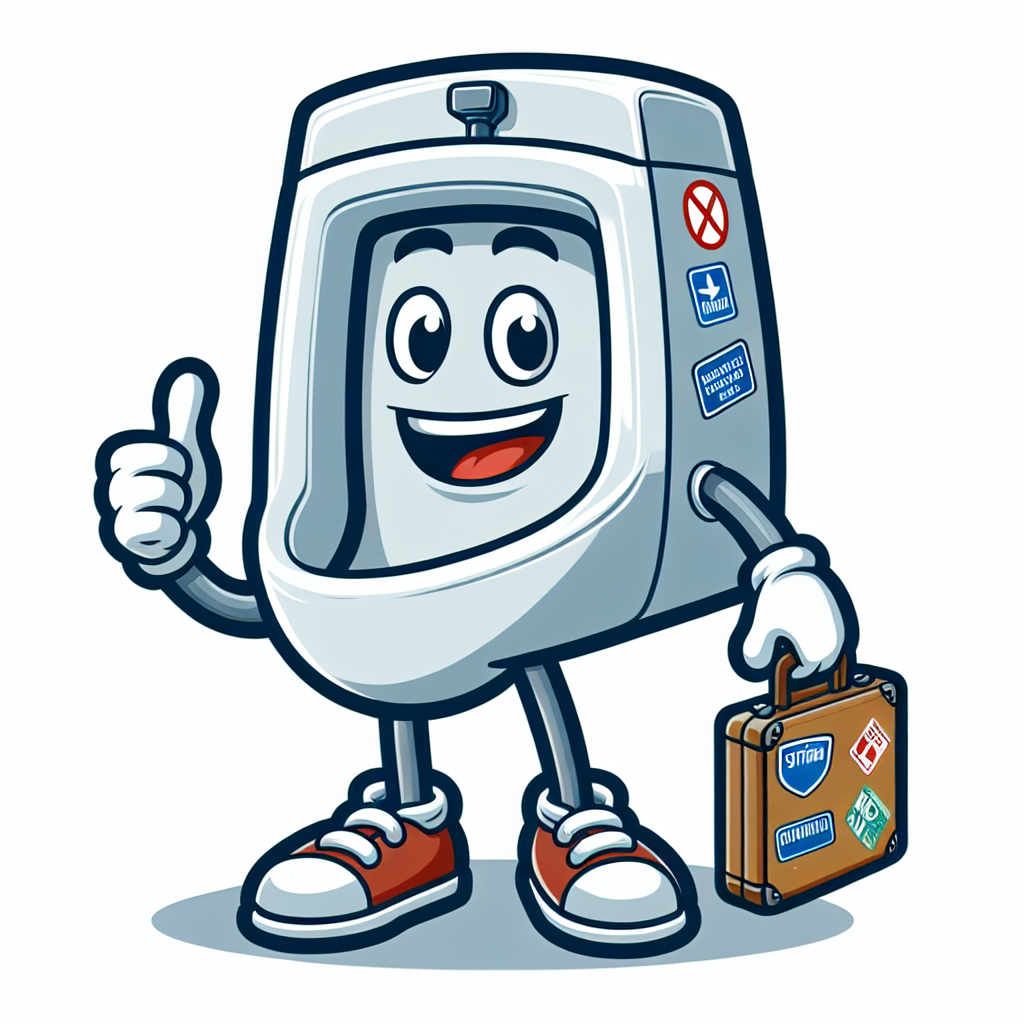
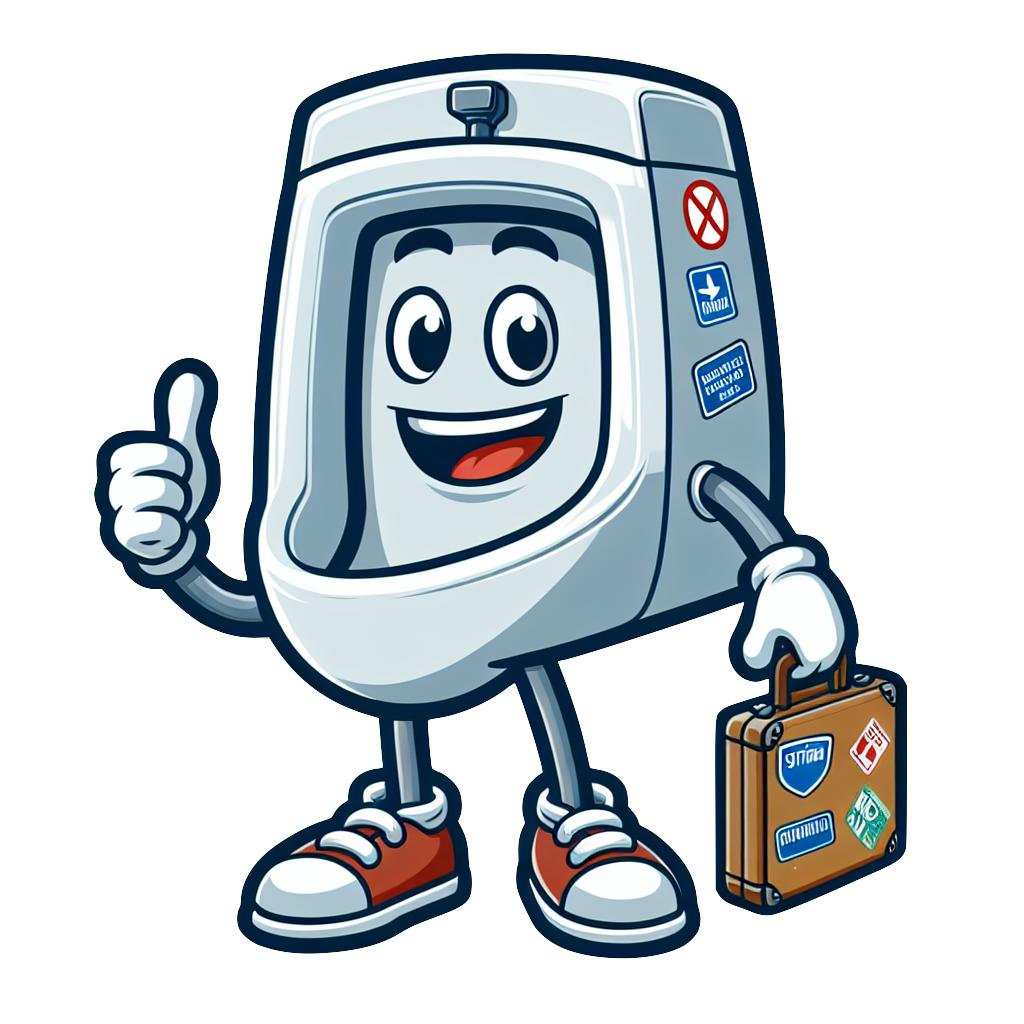
get stats working

Changed region(s): [[0.125, 0.8125, 0.8438, 0.9688], [0.7188, 0.6562, 0.75, 0.6875]]

diff --git a/public/js/logic.app.js b/public/js/logic.app.js
@@ -1,103 +1,115 @@
-function getOptions(states) {
-    var colors = ['#f5f5f5', '#e0b336'];
-    // This is hacky, but if there's no states selected, then Google Charts will show ALL states as selected.
-    if (countActiveLocations(states) == 0) {
-        colors = ['#f5f5f5'];
-    }
-    var options = {
+
+function getBaseOptions() {
+    return {
         region: 'US',
         displayMode: 'regions',
         resolution: 'provinces',
-        enableRegionInteractivity: true,
         legend: 'none',
         colorAxis: {
-            colors: colors,
+            colors: ['#f5f5f5', '#e0b336'],
         },
     };
+}
+
+function getOptions(regions) {
+    var options = getBaseOptions();
+    // This is hacky, but if there's no regions selected, then Google Charts will show ALL region as selected.
+    if (countActiveLocations(regions) == 0) {
+        options.colorAxis.colors = ['#f5f5f5'];
+    }
+    options.enableRegionInteractivity = true;
     return options;
 }
 
-function findLocationIndex(states, value) {
-    for (var i = 0; i < states.length; i++) {
-        if (states[i][0].v === value) {
+function findLocationIndex(regionArray, value) {
+    for (var i = 0; i < regionArray.length; i++) {
+        if (regionArray[i][0].v === value) {
             return i;
         }
     }
     return -1; // Return -1 if no match is found
 }
 
-function countActiveLocations(states) {
+function countActiveLocations(regions) {
     let count = 0;
-    for (let i = 0; i < states.length; i++) {
-        if (states[i][1] === 1) {
+    for (let i = 0; i < regions.length; i++) {
+        if (regions[i][1] === 1) {
             count++;
         }
     }
     return count;
 }
 
-function toggleRegion(states, region) {
-    stateIndex = findLocationIndex(states, region);
-    if (stateIndex == -1) {
+function toggleRegion(regionArray, region) {
+    index = findLocationIndex(regionArray, region);
+    if (index == -1) {
         console.log("Could not find location " + region);
-        return states;
+        return regionArray;
     }
-    if (states[stateIndex][1] == 0)
-        states[stateIndex][1] = 1
+    if (regionArray[index][1] == 0)
+        regionArray[index][1] = 1
     else
-        states[stateIndex][1] = 0
-    return states;
+        regionArray[index][1] = 0
+    return regionArray;
 }
 
-function generateData(states) {
+function generateGoogleDataTable(regions) {
     var data = new google.visualization.DataTable();
     data.addColumn('string', 'State');
     data.addColumn('number', 'Value');
     data.addColumn({ type: 'string', role: 'tooltip' });
-    data.addRows(states);
+    data.addRows(regions);
     return data;
 }
 
-function updateView(states) {
-    activeStates = countActiveLocations(states);
-    totalStates = states.length;
-    $('#active_states').html(activeStates);
-    $('#total_states').html(totalStates);
-    $('#amount').html(getAmount(activeStates, totalStates, volumes, activeStates * 8));
+function updateView(regionArray) {
+    const activeRegions = countActiveLocations(regionArray);
+    const totalRegions = regionArray.length;
+    $('#active_states').html(activeRegions);
+    $('#total_states').html(totalRegions);
+    $('#amount').html(getAmount(activeRegions, totalRegions, volumes, activeRegions * 8));
 
     // Update the URL
-    const stateStr = states.filter(state => state[1] === 1).map(state => state[0].v).join(',');
+    const regionStr = regionArray.filter(region => region[1] === 1).map(region => region[0].v).join(',');
     var url = window.location.origin + window.location.pathname;
-    if (stateStr)
-            url += '?active=' + stateStr;
+    if (regionStr)
+            url += '?active=' + regionStr;
     window.history.replaceState(null, null, url);
-    saveLocation(stateStr);
+    sendLocationBeacon(regionStr);
 }
 
-function getAmount(activeStates, totalStates, volumes, amount) {
-    var percent = Math.round(activeStates / totalStates * 100);
+function getAmount(activeRegions, totalRegions, volumes, amount) {
+    var percent = Math.round(activeRegions / totalRegions * 100);
     var volKeys = Object.keys(volumes);
     var randKey = volKeys[volKeys.length * Math.random() << 0];
     var volume = Math.round(1000 * amount / volumes[randKey]) / 1000;
     return `You've peed in ${percent}% of states.  That is ~${amount} fluid ounces or ${volume} ${pluralize(randKey, volume)}.`;
 }
 
-function addVisitedLocations() {
+function addVisitedLocations(regionArray) {
     const queryString = window.location.search;
     const urlParams = new URLSearchParams(queryString);
     const visitedLocationsParam = urlParams.get('active');
-    if (!visitedLocationsParam) { return }
+    if (!visitedLocationsParam) { return regionArray }
     const visitedLocations = visitedLocationsParam.split(',');
-    if (!visitedLocations) { return }
+    if (!visitedLocations) { return regionArray }
     for (var locationIdx in visitedLocations) {
         var location = visitedLocations[locationIdx];
         console.log(location);
-        toggleRegion(states, location);
+        regionArray = toggleRegion(regionArray, location);
     }
+    return regionArray;
 }
 
-
+function transformHashToGoogleArray(hash) {
+    var regionArray = [];
+    for (const key in hash) {
+        regionArray.push([{ v: key, f: hash[key]}, 0, '']);
+    }
+    return regionArray;
+}
 function initMap() {
+
     // Create session
     if (!localStorage.getItem('SESSION')) {
         if (window.crypto.randomUUID) {
@@ -106,11 +118,12 @@ function initMap() {
             console.log("No randomUUID available");
         }
     }
-    drawRegionsMap();
+    regionArray = transformHashToGoogleArray(usStateHash);
+    drawRegionsMap(regionArray);
 }
 
 // Don't care about response.  Just save the location and session (for de-dupe)
-function saveLocation(locations) {
+function sendLocationBeacon(locations) {
     const session = localStorage.getItem('SESSION');
     if (!session || !locations) {
         console.log("No session or location available to save");
@@ -128,19 +141,19 @@ function saveLocation(locations) {
       });
 }
 
-function drawRegionsMap() {
-    addVisitedLocations();
-    var data = generateData(states);
+function drawRegionsMap(regionArray) {
+    var regionArray = addVisitedLocations(regionArray);
+    var drawData = generateGoogleDataTable(regionArray);
 
     var chart = new google.visualization.GeoChart(document.getElementById('regions_div'));
-    chart.draw(data, getOptions(states));
-    updateView(states);
+    chart.draw(drawData, getOptions(regionArray));
+    updateView(regionArray);
 
     google.visualization.events.addListener(chart, 'regionClick', function (r) {
         console.log('regionClick: ' + r.region);
-        states = toggleRegion(states, r.region);
-        var newData = generateData(states);
-        chart.draw(newData, getOptions(states));
-        updateView(states);
+        regionArray = toggleRegion(regionArray, r.region);
+        drawData = generateGoogleDataTable(regionArray);
+        chart.draw(drawData, getOptions(regionArray));
+        updateView(regionArray);
     });
 }

diff --git a/public/js/data.app.js b/public/js/data.app.js
@@ -1,62 +1,62 @@
-var states = [
-    [{ v: 'US-AK', f: 'Juneau, AK' }, 0, ''],
-    [{ v: 'US-AL', f: 'Montgomery, AL' }, 0, ''],
-    [{ v: 'US-AZ', f: 'Phoenix, AZ' }, 0, ''],
-    [{ v: 'US-AR', f: 'Little Rock, AR' }, 0, ''],
-    [{ v: 'US-CA', f: 'Sacramento, CA' }, 0, ''],
-    [{ v: 'US-CO', f: 'Denver, CO' }, 0, ''],
-    [{ v: 'US-CT', f: 'Hartford, CT' }, 0, ''],
-    [{ v: 'US-DE', f: 'Dover, DE' }, 0, ''],
-    [{ v: 'US-FL', f: 'Tallahassee, FL' }, 0, ''],
-    [{ v: 'US-GA', f: 'Atlanta, GA' }, 0, ''],
-    [{ v: 'US-HI', f: 'Honolulu, HI' }, 0, ''],
-    [{ v: 'US-ID', f: 'Boise, ID' }, 0, ''],
-    [{ v: 'US-IL', f: 'Springfield, IL' }, 0, ''],
-    [{ v: 'US-IN', f: 'Indianapolis, IN' }, 0, ''],
-    [{ v: 'US-IA', f: 'Des Moines, IA' }, 0, ''],
-    [{ v: 'US-KS', f: 'Topeka, KS' }, 0, ''],
-    [{ v: 'US-KY', f: 'Frankfort, KY' }, 0, ''],
-    [{ v: 'US-LA', f: 'Baton Rouge, LA' }, 0, ''],
-    [{ v: 'US-ME', f: 'Augusta, ME' }, 0, ''],
-    [{ v: 'US-MD', f: 'Annapolis, MD' }, 0, ''],
-    [{ v: 'US-MA', f: 'Boston, MA' }, 0, ''],
-    [{ v: 'US-MI', f: 'Lansing, MI' }, 0, ''],
-    [{ v: 'US-MN', f: 'Saint Paul, MN' }, 0, ''],
-    [{ v: 'US-MS', f: 'Jackson, MS' }, 0, ''],
-    [{ v: 'US-MO', f: 'Jefferson City, MO' }, 0, ''],
-    [{ v: 'US-MT', f: 'Helena, MT' }, 0, ''],
-    [{ v: 'US-NE', f: 'Lincoln, NE' }, 0, ''],
-    [{ v: 'US-NV', f: 'Carson City, NV' }, 0, ''],
-    [{ v: 'US-NH', f: 'Concord, NH' }, 0, ''],
-    [{ v: 'US-NJ', f: 'Trenton, NJ' }, 0, ''],
-    [{ v: 'US-NM', f: 'Santa Fe, NM' }, 0, ''],
-    [{ v: 'US-NY', f: 'Albany, NY' }, 0, ''],
-    [{ v: 'US-NC', f: 'Raleigh, NC' }, 0, ''],
-    [{ v: 'US-ND', f: 'Bismarck, ND' }, 0, ''],
-    [{ v: 'US-OH', f: 'Columbus, OH' }, 0, ''],
-    [{ v: 'US-OK', f: 'Oklahoma City, OK' }, 0, ''],
-    [{ v: 'US-OR', f: 'Salem, OR' }, 0, ''],
-    [{ v: 'US-PA', f: 'Harrisburg, PA' }, 0, ''],
-    [{ v: 'US-RI', f: 'Providence, RI' }, 0, ''],
-    [{ v: 'US-SC', f: 'Columbia, SC' }, 0, ''],
-    [{ v: 'US-SD', f: 'Pierre, SD' }, 0, ''],
-    [{ v: 'US-TN', f: 'Nashville, TN' }, 0, ''],
-    [{ v: 'US-TX', f: 'Austin, TX' }, 0, ''],
-    [{ v: 'US-UT', f: 'Salt Lake City, UT' }, 0, ''],
-    [{ v: 'US-VT', f: 'Montpelier, VT' }, 0, ''],
-    [{ v: 'US-VA', f: 'Richmond, VA' }, 0, ''],
-    [{ v: 'US-WA', f: 'Olympia, WA' }, 0, ''],
-    [{ v: 'US-WV', f: 'Charleston, WV' }, 0, ''],
-    [{ v: 'US-WI', f: 'Madison, WI' }, 0, ''],
-    [{ v: 'US-WY', f: 'Cheyenne, WY' }, 0, '']
-];
+const usStateHash = {
+    'US-AK': 'Juneau, AK',
+    'US-AL': 'Montgomery, AL',
+    'US-AR': 'Little Rock, AR',
+    'US-AZ': 'Phoenix, AZ',
+    'US-CA': 'Sacramento, CA',
+    'US-CO': 'Denver, CO',
+    'US-CT': 'Hartford, CT',
+//    'US-DC': 'Washington, DC',  Not a state! Maybe later
+    'US-DE': 'Dover, DE',
+    'US-FL': 'Tallahassee, FL',
+    'US-GA': 'Atlanta, GA',
+    'US-HI': 'Honolulu, HI',
+    'US-IA': 'Des Moines, IA',
+    'US-ID': 'Boise, ID',
+    'US-IL': 'Springfield, IL',
+    'US-IN': 'Indianapolis, IN',
+    'US-KS': 'Topeka, KS',
+    'US-KY': 'Frankfort, KY',
+    'US-LA': 'Baton Rouge, LA',
+    'US-MA': 'Boston, MA',
+    'US-MD': 'Annapolis, MD',
+    'US-ME': 'Augusta, ME',
+    'US-MI': 'Lansing, MI',
+    'US-MN': 'Saint Paul, MN',
+    'US-MO': 'Jefferson City, MO',
+    'US-MS': 'Jackson, MS',
+    'US-MT': 'Helena, MT',
+    'US-NC': 'Raleigh, NC',
+    'US-NE': 'Lincoln, NE',
+    'US-NH': 'Concord, NH',
+    'US-NJ': 'Trenton, NJ',
+    'US-NM': 'Santa Fe, NM',
+    'US-NV': 'Carson City, NV',
+    'US-NY': 'Albany, NY',
+    'US-ND': 'Bismarck, ND',
+    'US-OH': 'Columbus, OH',
+    'US-OK': 'Oklahoma City, OK',
+    'US-OR': 'Salem, OR',
+    'US-PA': 'Harrisburg, PA',
+    'US-RI': 'Providence, RI',
+    'US-SC': 'Columbia, SC',
+    'US-SD': 'Pierre, SD',
+    'US-TN': 'Nashville, TN',
+    'US-TX': 'Austin, TX',
+    'US-UT': 'Salt Lake City, UT',
+    'US-VA': 'Richmond, VA',
+    'US-VT': 'Montpelier, VT',
+    'US-WA': 'Olympia, WA',
+    'US-WI': 'Madison, WI',
+    'US-WV': 'Charleston, WV',
+    'US-WY': 'Cheyenne, WY',
+}
 
 // All in fluid ounces
 var volumes = {
     'rat urination': 0.11,
     'mouse urination': 0.02,
     'elephant urination': 160,
-    'whale urination': 627,
     'cat urination': 0.9,
     'dog urination': 1.3,
     'horse urination': 10,
@@ -107,5 +107,11 @@ var volumes = {
     'Red Bull can': 8.4,
     'wine bottle': 25.4,
     'yogurt cup': 6,
-    'beer yard': 48
+    'beer yard': 48,
+    'eyedropper': 0.55,
+    'eyeball': 0.13, // https://en.wikipedia.org/wiki/Vitreous_body
+    'snow globe': 3.4, // https://www.tsa.gov/travel/security-screening/whatcanibring/items/snow-globes
+    'spitton': 5, // https://www.amazon.com/LIVEMUG-Pocket-Spittoon-Chewing-Tobacco/dp/B0BVRHJF9F
+    'Super Soaker': 65, // https://www.amazon.com/Soaker-Blaster-Capacity-Action-Outdoor/dp/B07JMJDVJR
+    'The Holy Grail': 10 // https://en.wikipedia.org/wiki/Holy_Grail
 };

diff --git a/routes/api.js b/routes/api.js
@@ -1,6 +1,7 @@
 var express = require('express');
 var router = express.Router();
 const sqlite3 = require('sqlite3');
+const fs = require("fs");
 
 /* GET users listing. */
 router.post('/save', function(req, res, next) {
@@ -26,6 +27,35 @@ router.post('/save', function(req, res, next) {
           }
       }
   );
+});
+
+router.get('/refresh-stats/:region', function(req, res, next) {
+  const region = req.params.region;
+  const dbPath = process.env.SQLITE_DB_PATH + region.toLowerCase() + '.db';
+  const db = new sqlite3.Database(dbPath);
+  db.all(`SELECT locations FROM locations`, function(error, rows){
+      if (error) {
+          console.log('SQL ERROR: ' + error);
+          next(error);
+      } else {
+          var statsHash = {};
+          rows.forEach(row => {
+              var locations = row.locations.split(',');
+              locations.forEach(location => {
+                  if (!statsHash[location]) {
+                      statsHash[location] = 0;
+                  }
+                  statsHash[location] += 1;
+              });
+          });
+          const statfile = process.env.STATS_PATH + region.toLowerCase() + '.json';
+          console.log('Writing stats to ' + statfile);
+          fs.writeFileSync(statfile, 
+            JSON.stringify(statsHash));
+          // /data/stats/us.json
+          res.send(statsHash);
+      }
+  });
 });
 
 module.exports = router;

diff --git a/routes/index.js b/routes/index.js
@@ -48,5 +48,9 @@ router.get('/terms', function(req, res, next) {
   res.render('terms');
 });
 
+router.get('/stats', function(req, res, next) {
+  res.render('stats');
+});
+
 
 module.exports = router;

diff --git a/app.js b/app.js
@@ -19,6 +19,7 @@ app.use(express.json());
 app.use(express.urlencoded({ extended: false }));
 app.use(cookieParser());
 app.use(express.static(path.join(__dirname, 'public')));
+app.use('/data/stats', express.static(process.env.STATS_PATH));
 
 app.use('/', indexRouter);
 app.use('/api', apiRouter);